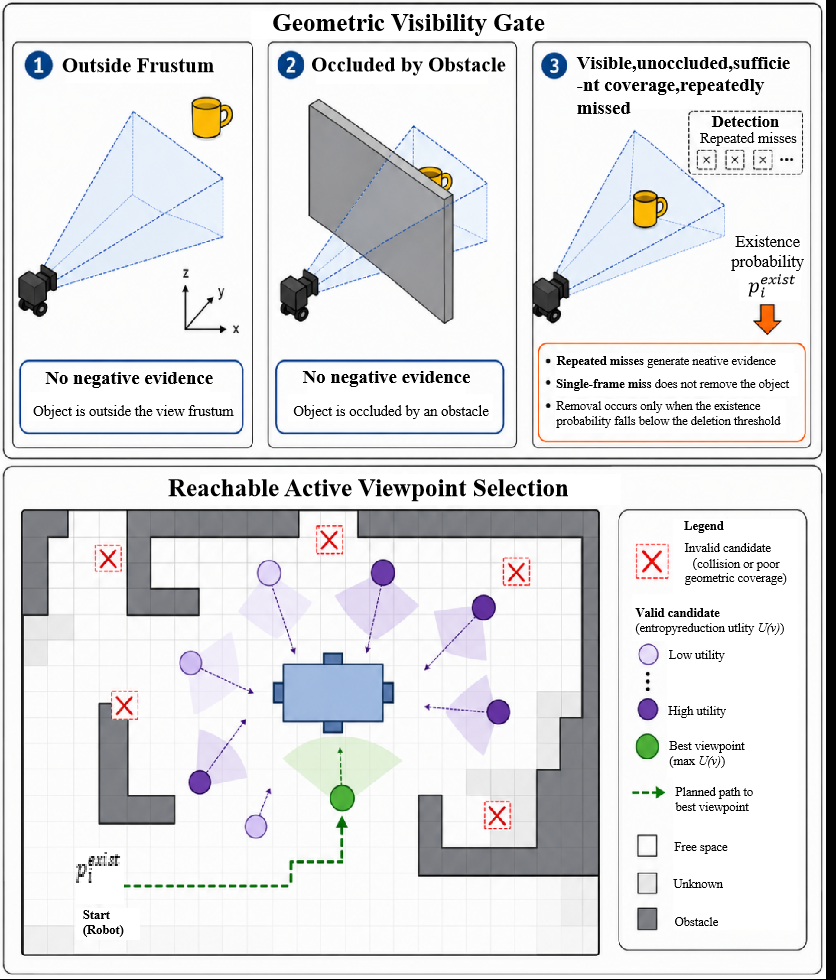
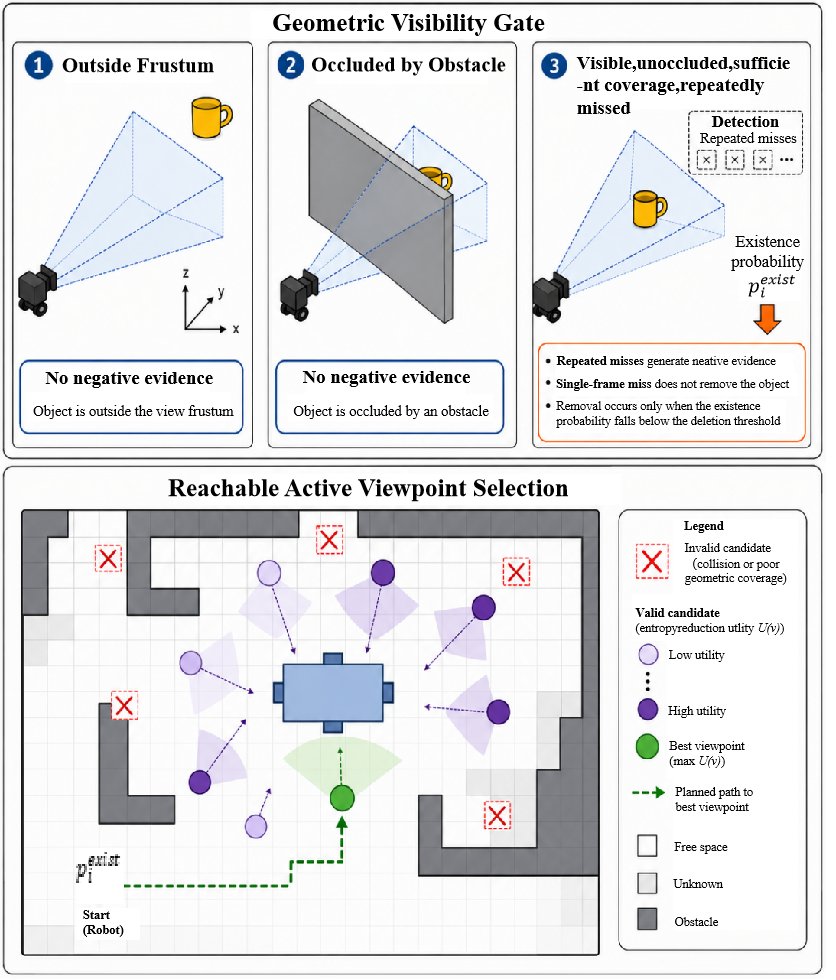
Fix transparent figure backgrounds (#3)
* Fix transparent figure backgrounds

* Fix transparent figure backgrounds

* Fix transparent figure backgrounds

* Fix transparent figure backgrounds

* Fix transparent figure backgrounds

Changed region(s): [[0.9641, 0.0, 1.0, 1.0]]

diff --git a/index.html b/index.html
@@ -102,13 +102,13 @@
       <div class="section-intro"><p class="kicker">Demonstrations</p><h2>From simulation to a physical robot.</h2><p>The same persistent memory abstraction supports autonomous mapping, inspection, and object-state revision across both settings.</p></div>
       <div class="video-grid">
         <figure><video controls muted playsinline preload="metadata" poster="static/images/overview-horizontal.png"><source src="static/videos/simulation-demo.mp4" type="video/mp4">Your browser does not support MP4 video.</video><figcaption><strong>Simulation.</strong> Autonomous exploration, inspection, and persistent updates in unseen indoor environments.</figcaption></figure>
-        <figure><video controls muted playsinline preload="metadata" poster="static/images/physical-deployment-white.png"><source src="static/videos/real-robot-demo.mp4" type="video/mp4">Your browser does not support MP4 video.</video><figcaption><strong>Physical deployment.</strong> Onboard RGB-D and LiDAR sensing materialize a hierarchical scene graph.</figcaption></figure>
+        <figure><video controls muted playsinline preload="metadata" poster="static/images/physical-deployment-transparent.png"><source src="static/videos/real-robot-demo.mp4" type="video/mp4">Your browser does not support MP4 video.</video><figcaption><strong>Physical deployment.</strong> Onboard RGB-D and LiDAR sensing materialize a hierarchical scene graph.</figcaption></figure>
       </div>
     </section>
 
     <section class="paper-section page-width deployment">
       <div class="section-intro"><p class="kicker">Physical deployment</p><h2>A traceable world model built from onboard sensing.</h2></div>
-      <figure class="figure-card wide-figure"><img src="static/images/physical-deployment-white.png" alt="Physical robot exploration, inspection, mapping, and hierarchical graph output" loading="lazy"></figure>
+      <figure class="figure-card wide-figure"><img src="static/images/physical-deployment-transparent.png" alt="Physical robot exploration, inspection, mapping, and hierarchical graph output" loading="lazy"></figure>
     </section>
 
     <section id="citation" class="paper-section narrow citation">
